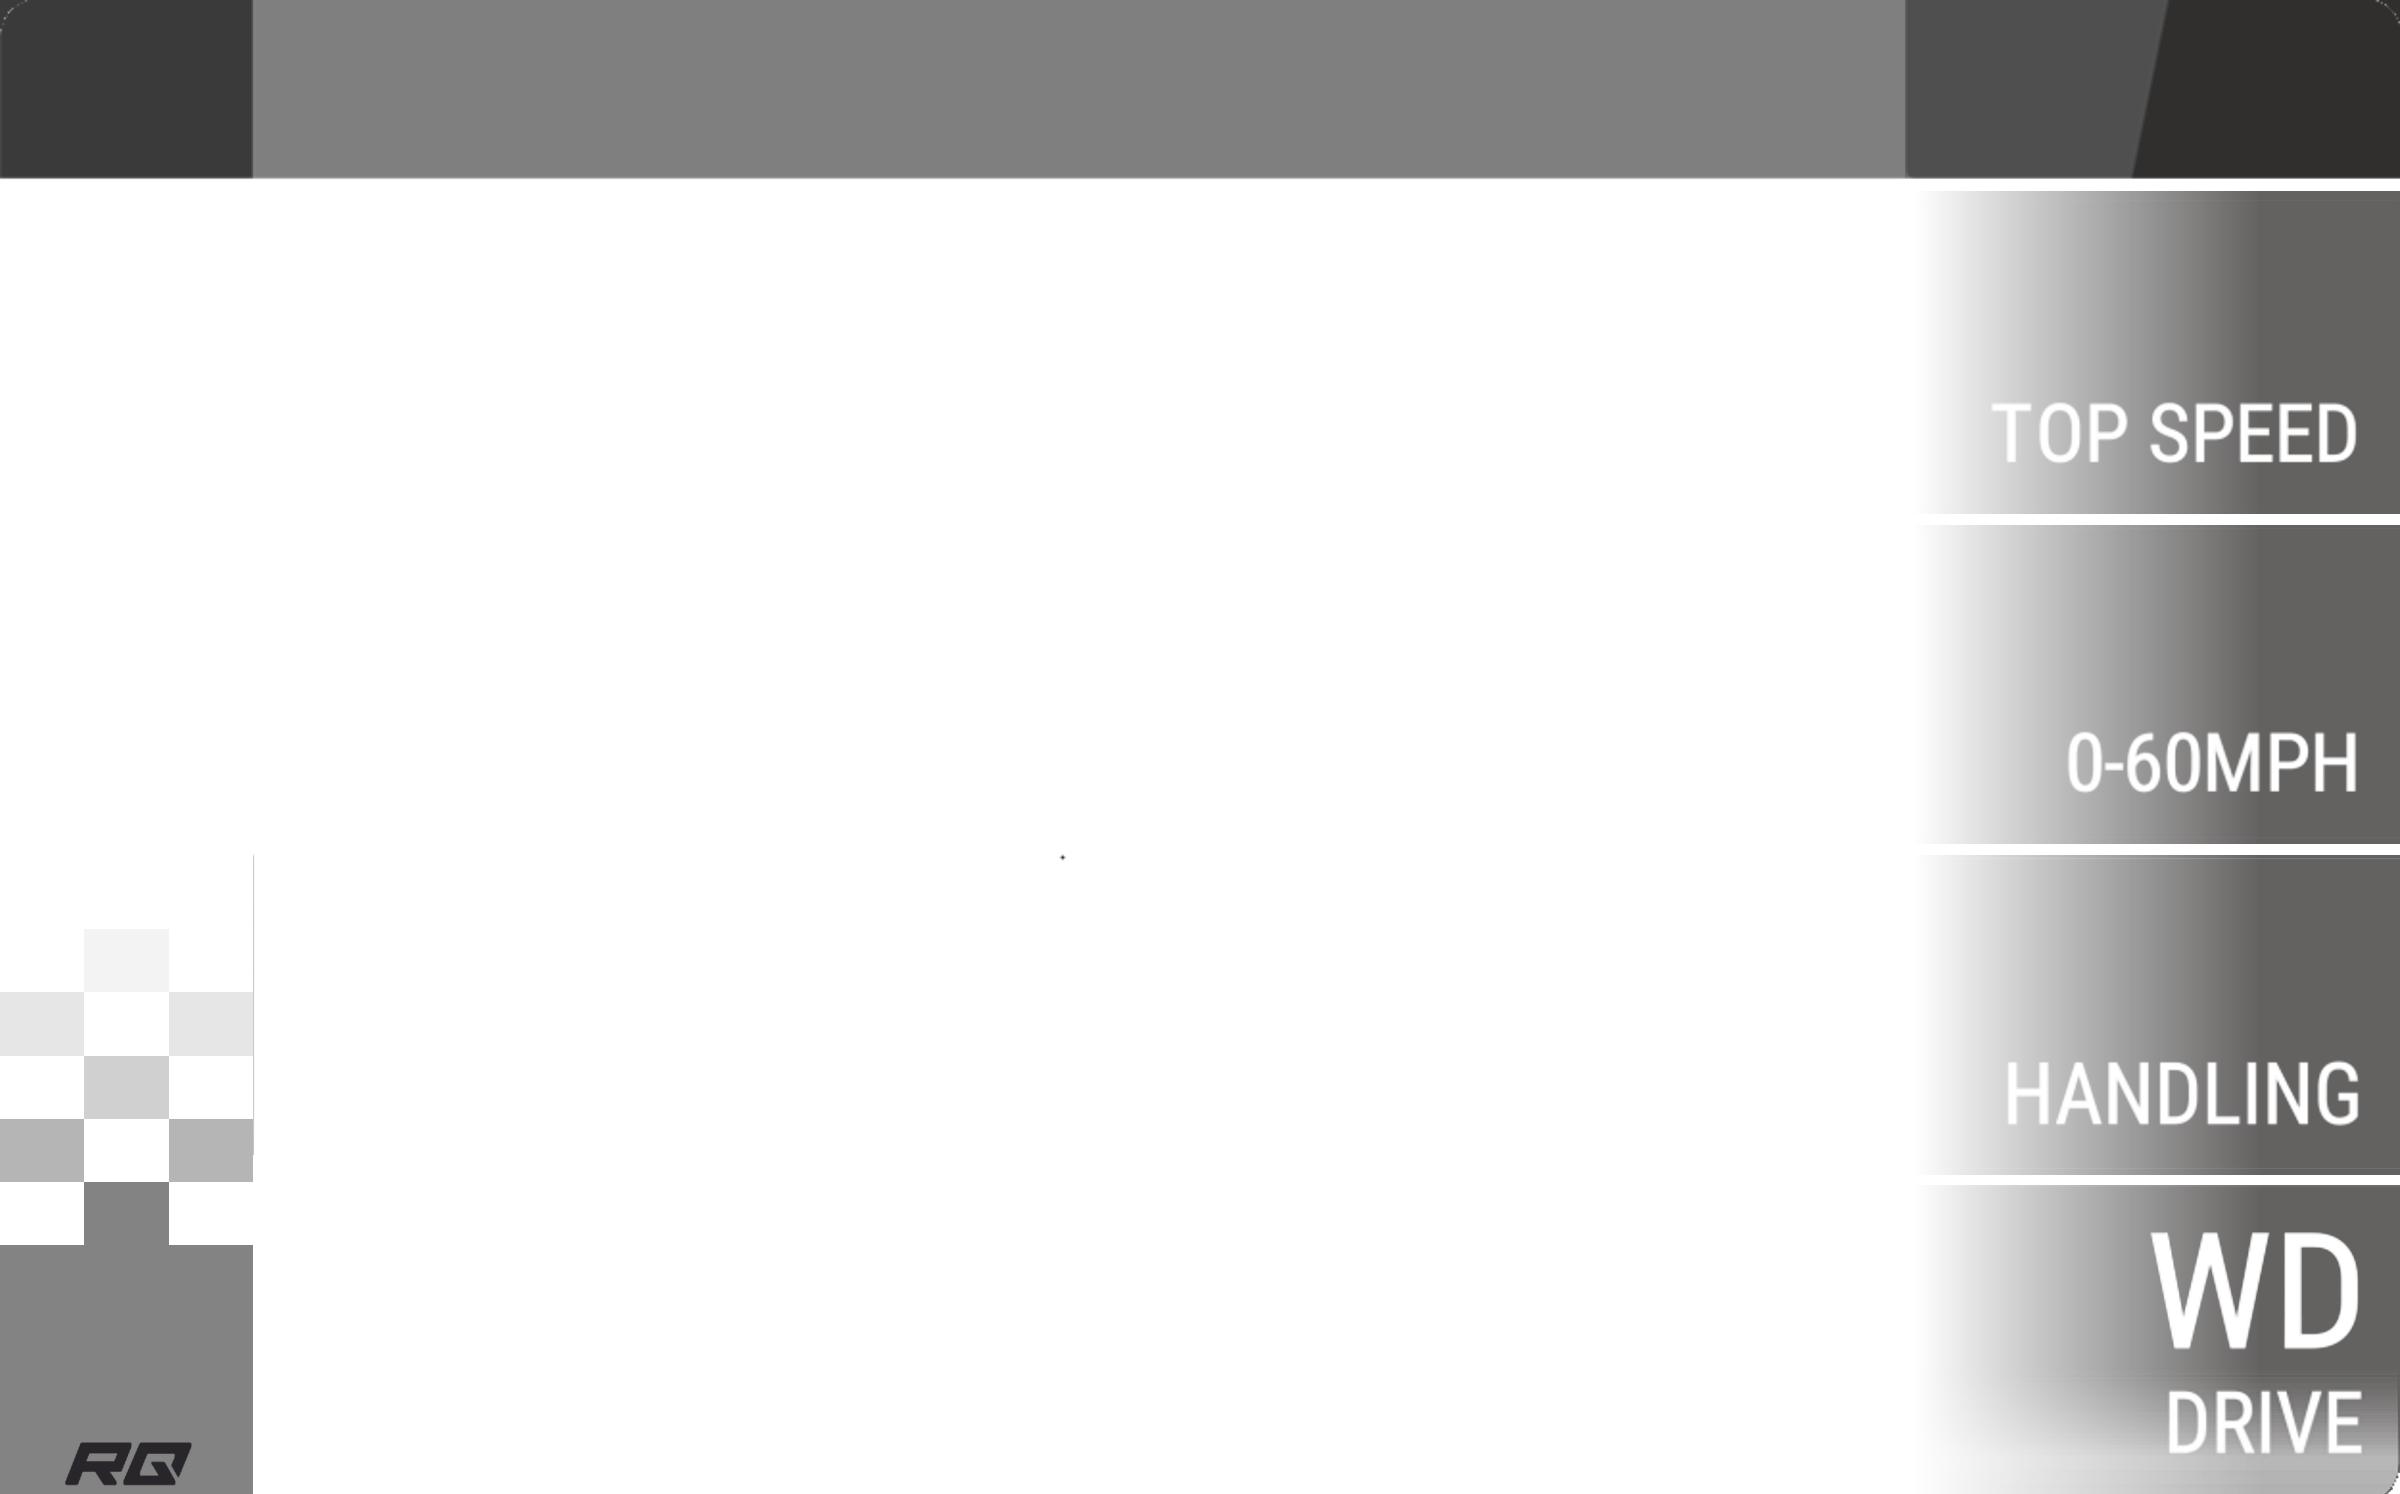
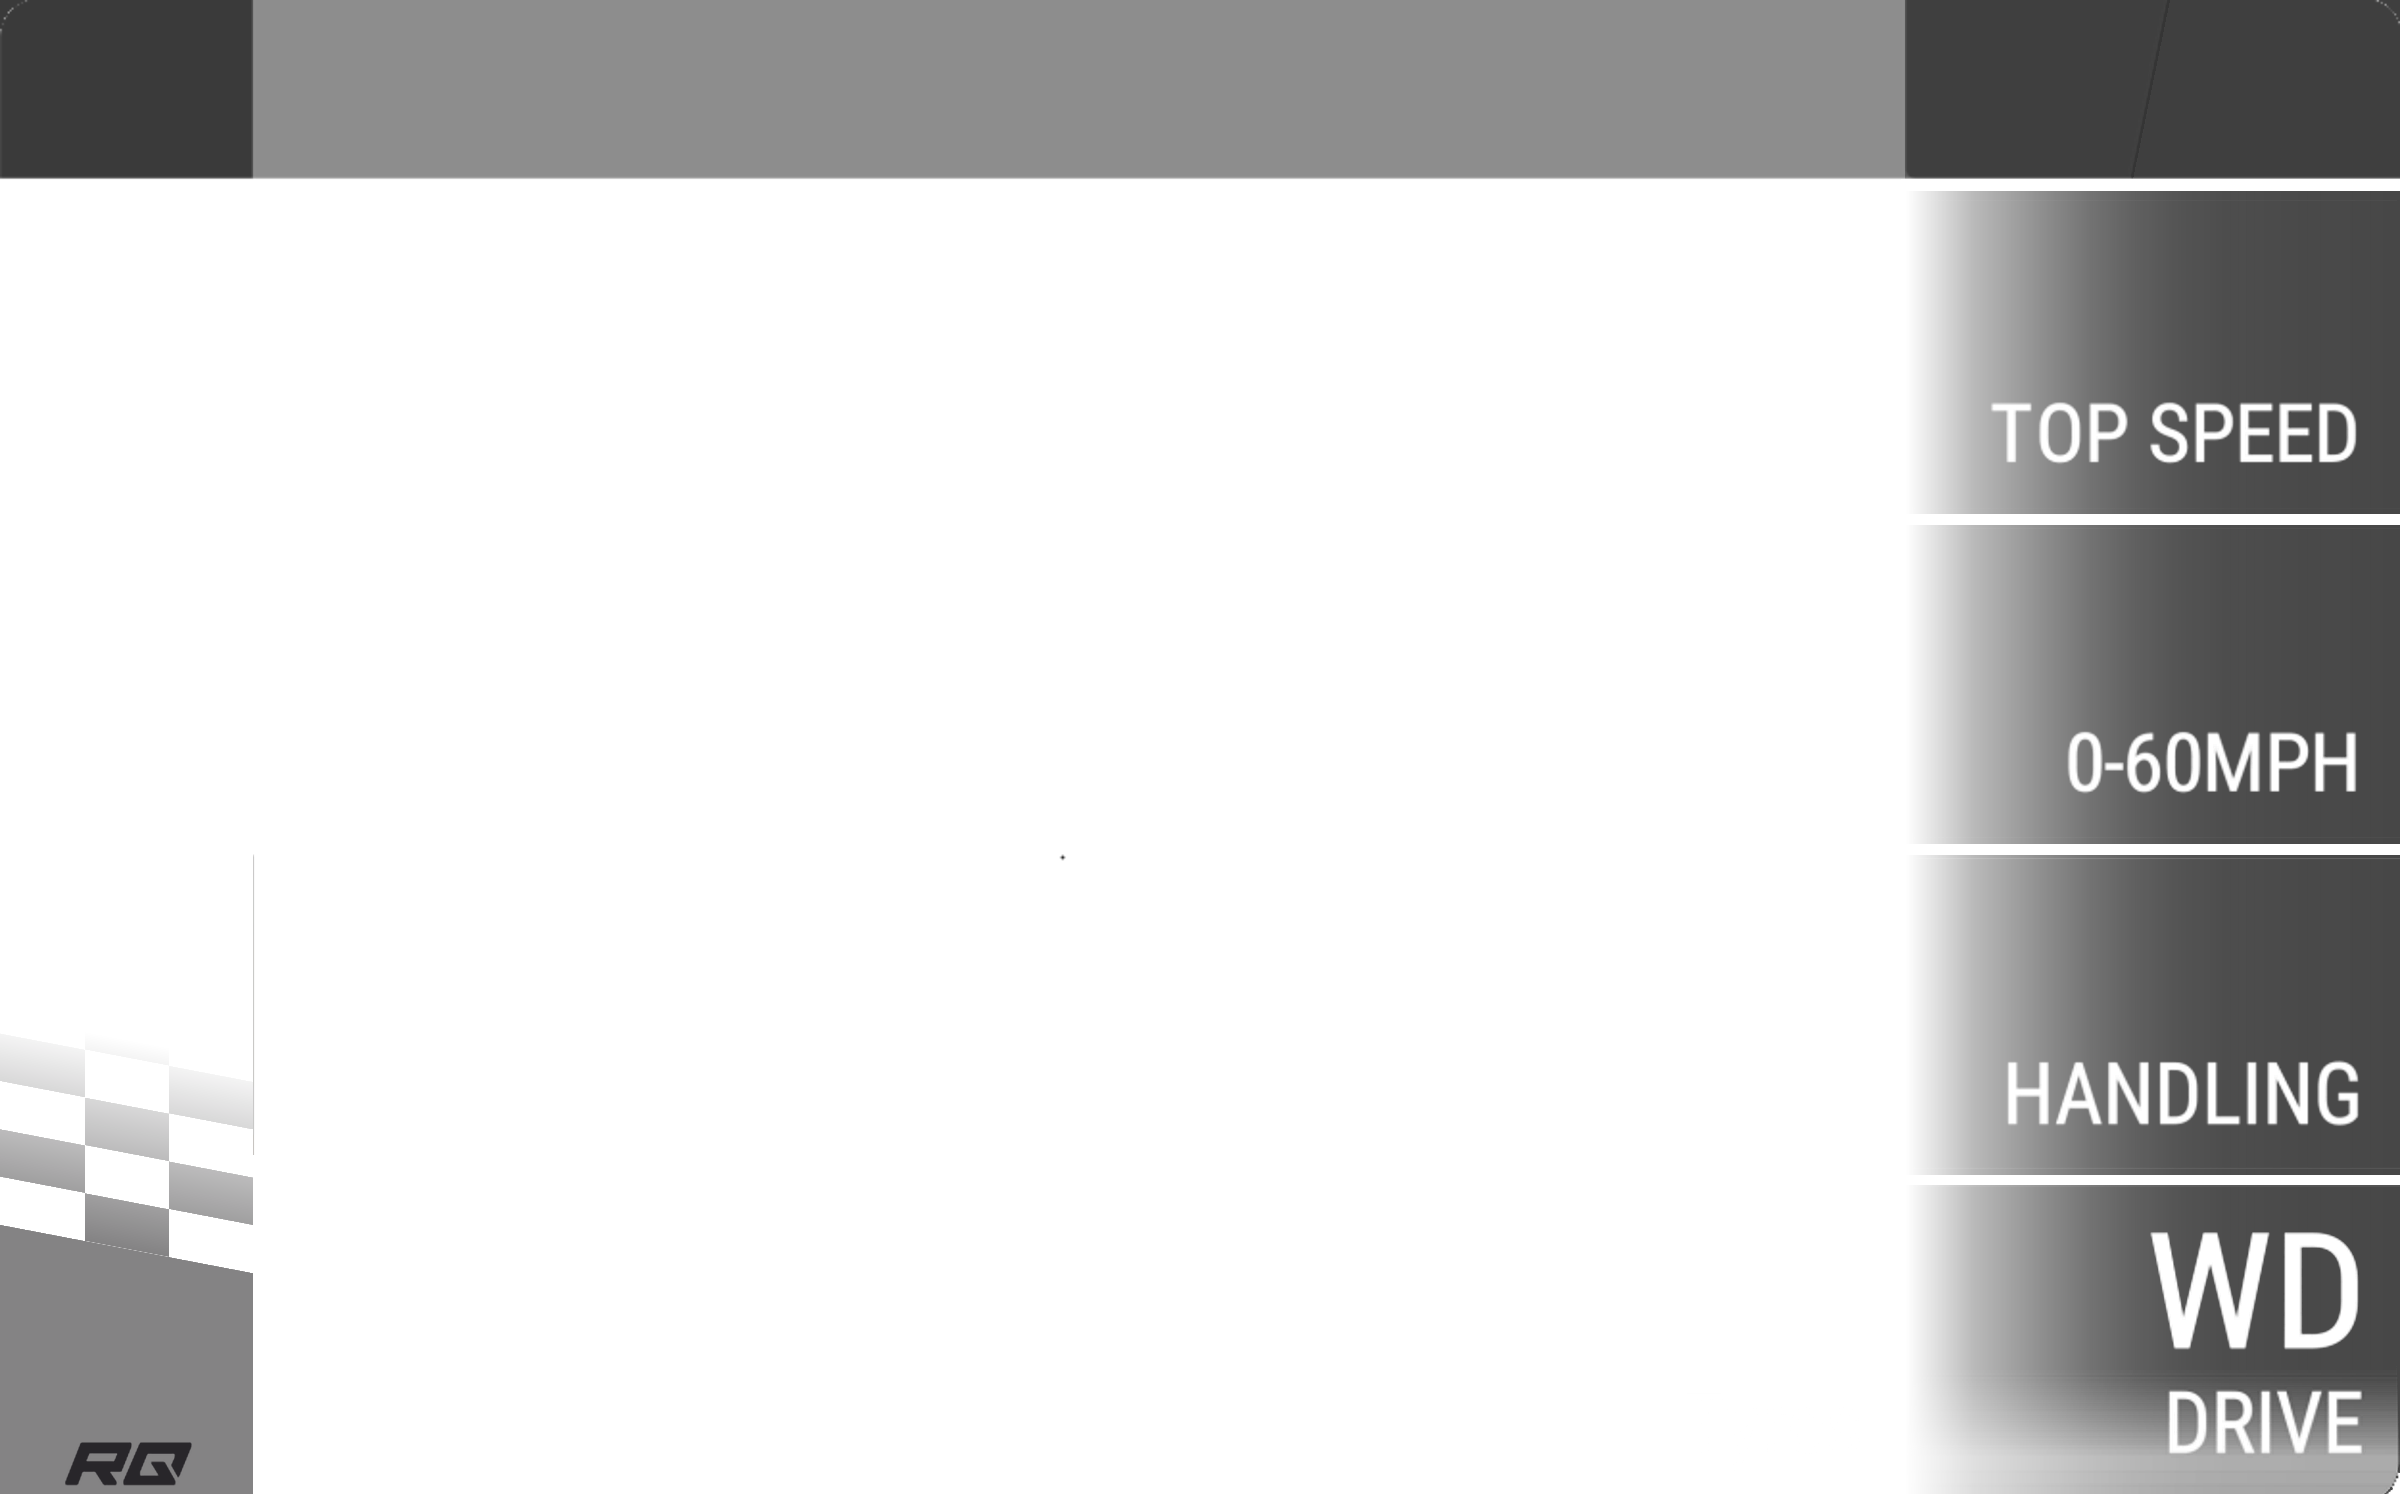
fix

Changed region(s): [[0.7812, 0.1232, 1.0, 1.0], [0.0, 0.6466, 0.125, 0.8621]]

diff --git a/tool/make_modern_frames.py b/tool/make_modern_frames.py
@@ -19,12 +19,20 @@ FY = 1494 / 828
 SRC = {'S': 'legendary', 'A': 'epic', 'B': 'ultra_rare', 'C': 'super_rare',
        'D': 'rare', 'E': 'uncommon', 'F': 'common'}
 OUT = 'assets/frames/modern'
-PANEL_RGB = np.array([38.0, 36.0, 35.0])
-PANEL_MAX = 0.72      # how dark the stat panels get on the right
-RAMP_END = 1260       # x (card units) where they are darkest; the template's blur fades over the same width
-CHECK_TOP = 690       # the solid colour block starts here, the chequered flag sits above it
-CHECK_CELL = 35       # size of a square of the chequered flag
-CHECK_ALPHA = [1.0, 0.60, 0.38, 0.20, 0.10]   # row by row, upwards
+PANEL_RGB = np.array([50.0, 50.0, 50.0])   # neutral grey of the stat panels (measured on the new design)
+# How solid the stat panels are from left to right: (x in card units, alpha). Measured on a card of the new
+# design by comparing the panels with the clear photo seen in the gaps between them.
+PANEL_ALPHA = [(1062, 0.0), (1100, 0.34), (1140, 0.56), (1166, 0.69), (1191, 0.78),
+               (1216, 0.84), (1241, 0.87), (1290, 0.89), (1338, 0.90)]
+# The chequered flag above the class block (measured): all horizontal edges are tilted by SHEAR (y = u + SHEAR * x),
+# in the tilted coordinate u the squares are CHECK_PITCH tall, the first row starts at CHECK_U0, the solid block at
+# CHECK_SOLID_U, and the colour fades in from clear to solid over u = CHECK_FADE (start, length).
+SHEAR = 0.19
+CHECK_U0 = 572.5
+CHECK_PITCH = 26.5
+CHECK_SOLID_U = CHECK_U0 + 4 * CHECK_PITCH   # = 678.5
+CHECK_FADE = (562.0, 116.0)
+CLASS_A_COLOUR = (147, 80, 255)               # the new design's purple (the standard frame's A is a bit redder)
 TYRES_DX = -12        # units: the word "Tyres" under the photo ends at x=1034 like on the game's cards
 TYRES_DY = 5          # and sits 5 units lower than in the standard frame
 # Stat panels of the new design (card units) and how far the words baked into the standard panels move down.
@@ -32,10 +40,12 @@ NEW_PANELS = [(106, 285), (291, 468), (474, 651), (657, 828)]
 WORD_GROUPS = [(99, 284, 3.8), (284, 466, 4.6), (466, 650, 5.6), (650, 757, 5.0), (757, 828, 6.3)]
 # The title row is neutral grey on the new cards (the standard frame is warm brown). Colours measured
 # on a card of the new design; transparency of every part is kept from the standard frame.
-TITLE_LOGO = (58, 58, 58)
-TITLE_BAR = (84, 84, 86)
-TITLE_YEAR = (55, 55, 56)
-TITLE_COUNTRY = (48, 47, 46)
+# (grey, alpha) of the four parts, measured against the clear photo in the gap under the row.
+TITLE_LOGO = (58, 1.0)
+TITLE_BAR = (47, 0.55)
+TITLE_YEAR = (53, 0.95)
+TITLE_COUNTRY = (53, 0.95)
+TITLE_STD_ALPHA = (1.0, 191 / 255, 224 / 255, 1.0)   # what the standard frame has, to keep edges soft
 COUNTRY_EDGE = (1209.5, -0.2082)   # slanted left edge of the country block: x = a + b * y
 
 
@@ -89,9 +99,11 @@ def build(letter, name):
     edge = COUNTRY_EDGE[0] + COUNTRY_EDGE[1] * ys_all[:, None]
     X = np.broadcast_to(xs_all[None, :], (ys_title.stop, a.shape[1]))
     part = np.where(X < 141, 0, np.where(X < 1062, 1, np.where(X < edge, 2, 3)))
-    for idx, rgb in enumerate((TITLE_LOGO, TITLE_BAR, TITLE_YEAR, TITLE_COUNTRY)):
+    for idx, ((grey, alpha), std) in enumerate(zip((TITLE_LOGO, TITLE_BAR, TITLE_YEAR, TITLE_COUNTRY), TITLE_STD_ALPHA)):
         sel = (part == idx) & (out[ys_title, :, 3] > 0)
-        out[ys_title, :, :3][sel] = rgb
+        out[ys_title, :, :3][sel] = grey
+        scaled = out[ys_title, :, 3] * (alpha / std)
+        out[ys_title, :, 3] = np.where(sel, np.clip(scaled, 0, 255), out[ys_title, :, 3])
 
     # --- sprites to keep (cut before the areas are cleared) ---
     tyres_cov, tyres_pos = sprite(a, (945, 765, 1062, 822),
@@ -137,8 +149,7 @@ def build(letter, name):
         word[ya + shift:dst_b] = np.maximum(word[ya + shift:dst_b], word_old[ya:ya + (dst_b - ya - shift)])
     out[px(0, 99)[1]:, x0p:x1p] = 0                     # the old panels go
     xs = np.arange(x0p, x1p)
-    t = np.clip((xs - px(1066, 0)[0]) / (px(RAMP_END, 0)[0] - px(1066, 0)[0]), 0, 1)
-    panel_alpha = PANEL_MAX * t                        # fully clear at the left edge, PANEL_MAX from RAMP_END on
+    panel_alpha = np.interp(xs / FX, [p[0] for p in PANEL_ALPHA], [p[1] for p in PANEL_ALPHA])
     for u0, u1 in NEW_PANELS:
         ya, yb = px(0, u0)[1], px(0, u1)[1]
         pa = np.broadcast_to(panel_alpha, (yb - ya, x1p - x0p))
@@ -148,21 +159,29 @@ def build(letter, name):
         out[ya:yb, x0p:x1p, :3] = np.where(oa[..., None] > 0, rgb, 0)
         out[ya:yb, x0p:x1p, 3] = oa * 255
 
-    # --- new class block: solid colour, and above it a see-through chequered flag ---
-    def rect(x0, y0, x1, y1, alpha):
-        ys, xs_ = region(x0, y0, x1, y1)
-        blk = out[ys, xs_]
-        da = blk[..., 3:4] / 255.0
-        oa = alpha + da * (1 - alpha)
-        blk[..., :3] = (cls * alpha + blk[..., :3] * da * (1 - alpha)) / np.maximum(oa, 1e-6)
-        blk[..., 3:4] = oa * 255
-    width = 141 / 3                                   # three columns of squares
-    for row, alpha in enumerate(CHECK_ALPHA, start=1):
-        top = CHECK_TOP - CHECK_CELL * row
-        for col in range(3):
-            if (col + row) % 2 == 0:                  # every other square, like a chequered flag
-                rect(col * width, top, (col + 1) * width, top + CHECK_CELL, alpha)
-    rect(0, CHECK_TOP, 141, 828, 1.0)
+    # --- new class block: solid colour and, above it, the tilted chequered flag that fades in ---
+    if letter == 'A':
+        cls = np.array(CLASS_A_COLOUR, dtype=float)
+    ys_, xs_ = region(0, 520, 141, 828)
+    yy = (np.arange(ys_.start, ys_.stop) / FY)[:, None]            # card units
+    xx = (np.arange(xs_.start, xs_.stop) / FX)[None, :]
+    u = yy - SHEAR * xx                                             # tilted coordinate
+    col = np.clip((xx // (141 / 3)).astype(int), 0, 2)
+    row = np.floor((u - CHECK_U0) / CHECK_PITCH).astype(int)
+    # chequered: the outer columns are filled on even rows, the middle one on odd rows; row -1 is the faint square above
+    filled = np.where(row == -1, col == 1, (col % 2 == 0) == (row % 2 == 0))
+    fade = np.clip((u - CHECK_FADE[0]) / CHECK_FADE[1], 0, 1)
+    alpha = np.where(u >= CHECK_SOLID_U, 1.0, np.where(filled, fade, 0.0))
+    # soft edges: one pixel of anti-aliasing across the tilted edges
+    edge_u = np.minimum((u - CHECK_U0) % CHECK_PITCH, CHECK_PITCH - (u - CHECK_U0) % CHECK_PITCH) * FY
+    alpha = alpha * np.where(u >= CHECK_SOLID_U, np.clip((u - CHECK_SOLID_U) * FY + 0.5, 0, 1),
+                             np.clip(edge_u + 0.5, 0, 1))
+    blk = out[ys_, xs_]
+    da = blk[..., 3:4] / 255.0
+    al = alpha[..., None]
+    oa = al + da * (1 - al)
+    blk[..., :3] = (cls * al + blk[..., :3] * da * (1 - al)) / np.maximum(oa, 1e-6)
+    blk[..., 3:4] = oa * 255
 
     # --- sprites back: dark RQ logo on the block, words under the photo, wrench ---
     put(out, logo_cov_arr, logo_pos, (40, 38, 42), scale=0.78, anchor=px(36, 799))

diff --git a/claude/claude.md b/claude/claude.md
@@ -139,7 +139,10 @@ claude/claude.md                 this file
   Measured from a Porsche 911 GT2 card: no stars/bottom strip, wrench 1.5x at (185,750), stat panels fading in from fully clear
   (alpha 0 -> 0.72 over x 1066..1260; the template's blur fades over the same width via `blurRegions[].fadeLeft`),
   colour block topped by a see-through chequered flag (35-unit squares, 3 columns, alpha fading upwards; class colour),
-  dark RQ number (`fields.rq.color`, y 699). Stat panels re-spaced to the reference (gaps centred at 288/471/654, `NEW_PANELS`), baked words moved down per group
+  dark RQ number (`fields.rq.color`, y 699). Everything measured ON the reference card, not by eye: stat panels = neutral grey 50 with measured alpha curve (0 at x=1062, .78 at 1191, .90 at the
+  right edge; fitted from the clear photo in the gaps between panels), blur fadeLeft 130; title row parts (logo 58 opaque, bar 47 a=.55, year/country 53
+  a=.95); chequered flag = tilted by 0.19 (10.8 deg), squares 26.5 tall / 46.5 wide, alpha (u-562)/116, solid block from u=678.5; class A colour
+  (147,80,255). Stat panels re-spaced to the reference (gaps centred at 288/471/654, `NEW_PANELS`), baked words moved down per group
   (`WORD_GROUPS`), tyres word dx -12 / dy +5, `blurRegions` y/h and `drivePrefix.baseline` 743 follow. Checked against a card of
   the new design: static words within 1-2 units. Calibration trick: use the reference card as the photo (zoom 1, no shift) and
   compare the dynamic fields by eye/measure. Title row recoloured neutral grey (logo 58, bar 84/84/86, year 55, country 48),
